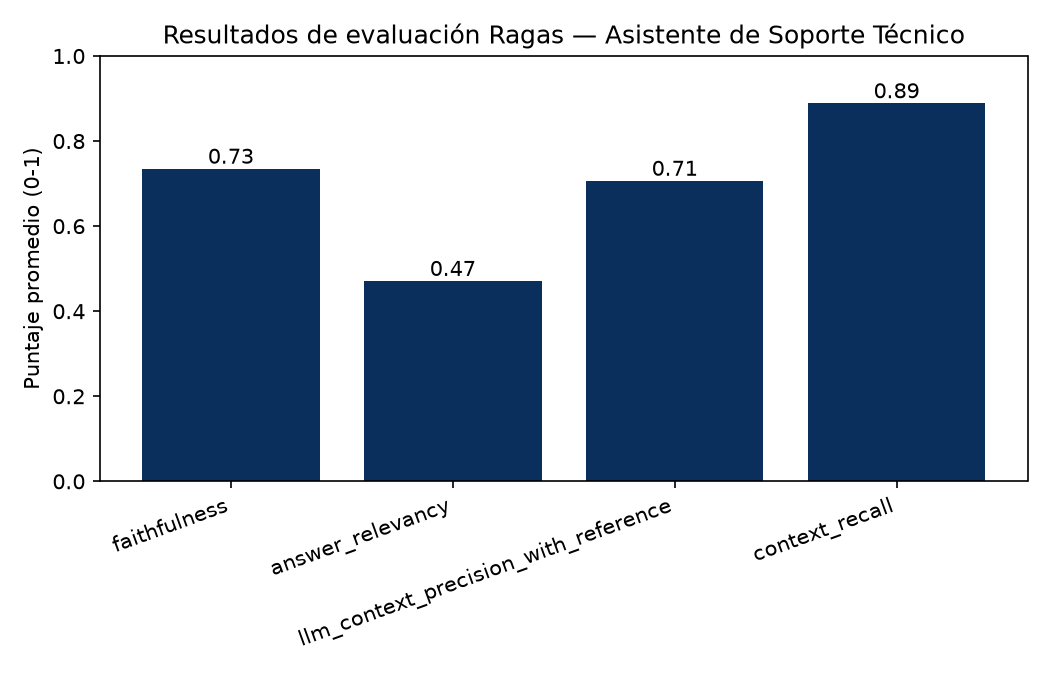
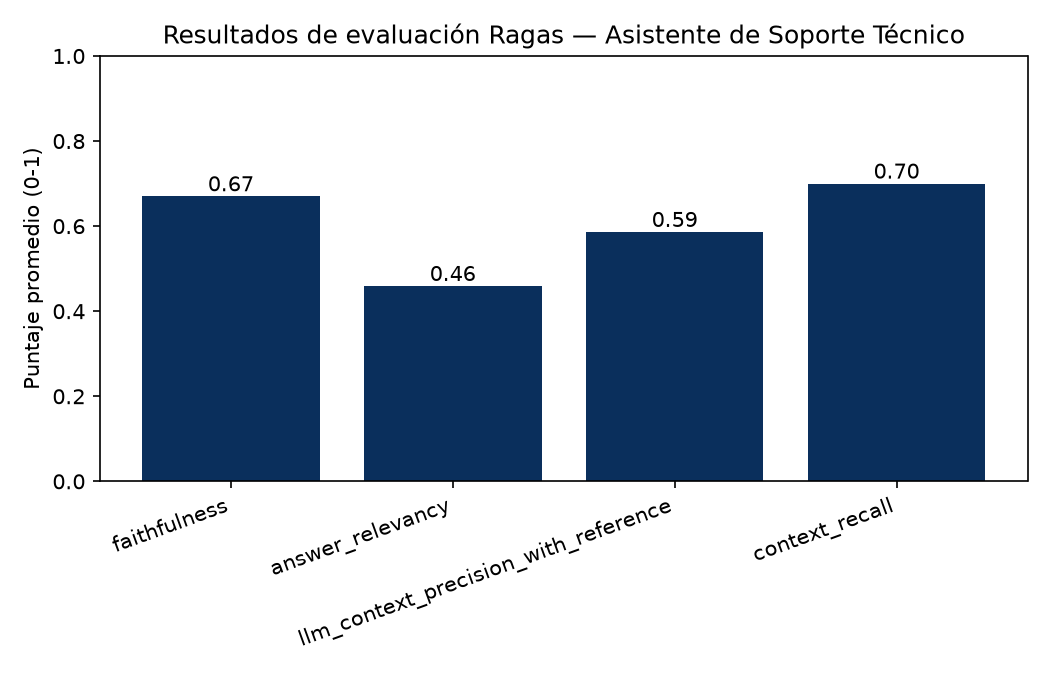
Resultados Ragas del agente

diff --git a/eval/comparacion_ragas.md b/eval/comparacion_ragas.md
@@ -1,8 +1,8 @@
 | Métrica | Avance 2 (pipeline fijo, top_k=6) | Avance 3 (agente) | Diferencia |
 |---|---|---|---|
-| faithfulness | 0.628 | 0.735 | +0.107 |
-| answer_relevancy | 0.427 | 0.471 | +0.044 |
-| context_precision | 0.492 | 0.707 | +0.214 |
-| context_recall | 0.650 | 0.889 | +0.239 |
+| faithfulness | 0.628 | 0.670 | +0.042 |
+| answer_relevancy | 0.427 | 0.459 | +0.032 |
+| context_precision | 0.492 | 0.586 | +0.094 |
+| context_recall | 0.650 | 0.700 | +0.050 |
 
 Preguntas evaluadas: 20
